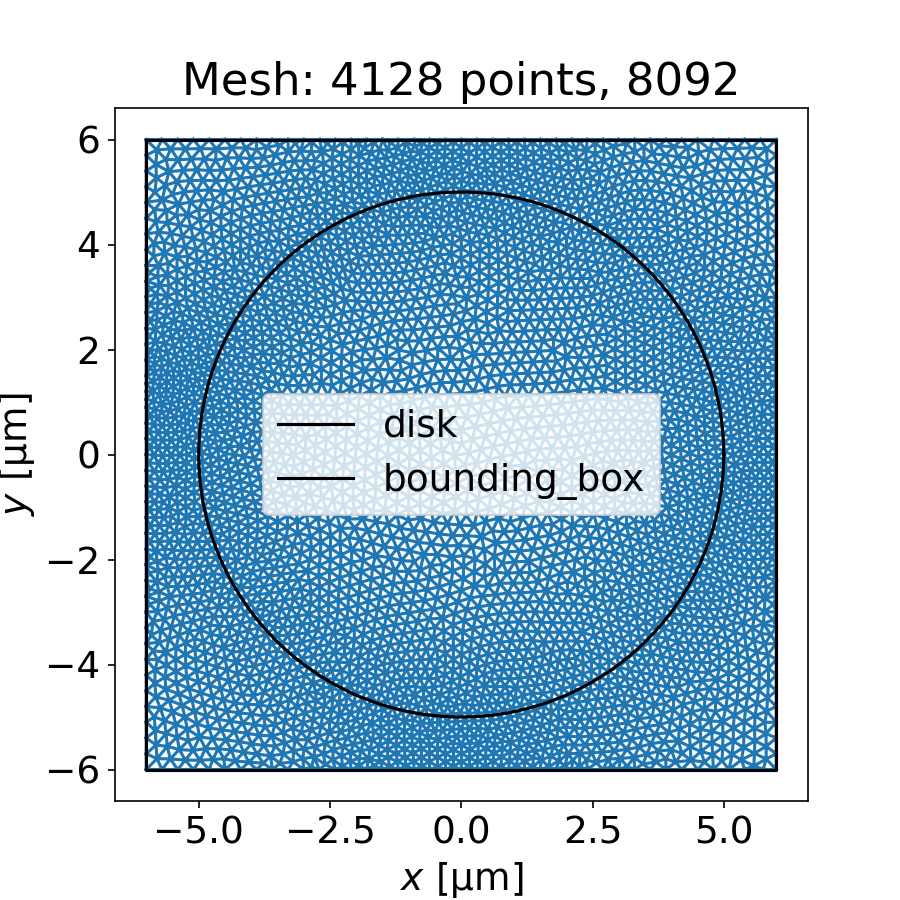
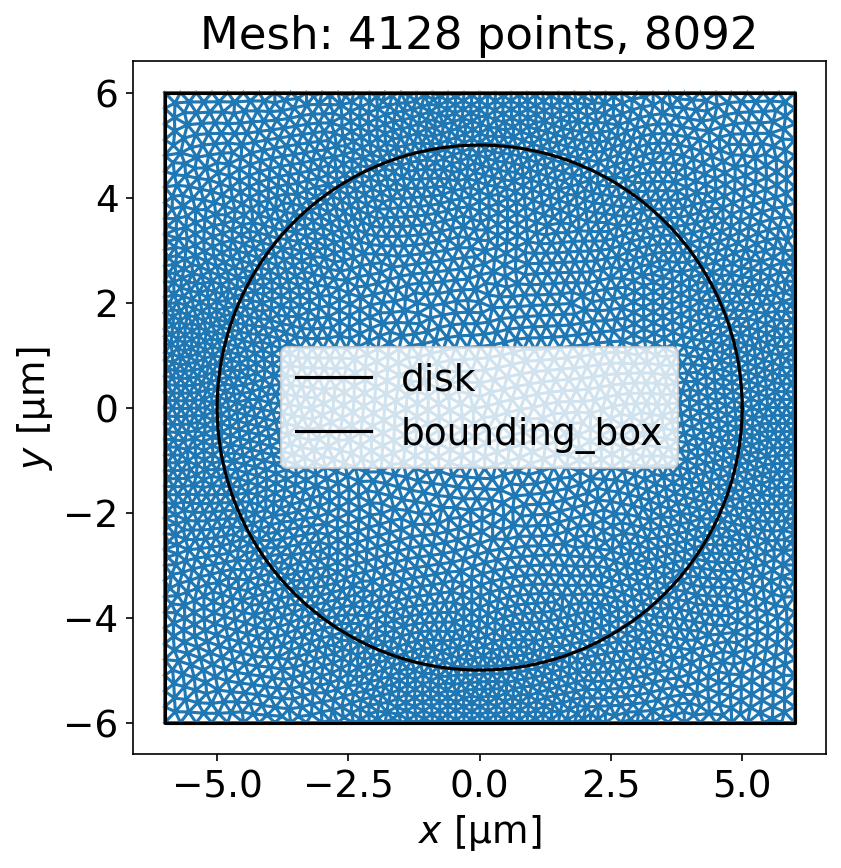
update plots

diff --git a/examples/scripts/ring.py b/examples/scripts/ring.py
@@ -119,19 +119,35 @@ if __name__ == "__main__":
         npoints = ring.points.shape[0]
         ntriangles = ring.triangles.shape[0]
         ax.set_title(f"Mesh: {npoints} points, {ntriangles}")
-        ax.figure.savefig(os.path.join(imagedir, f"{ring.name}_mesh.png"))
+        ax.figure.savefig(
+            os.path.join(imagedir, f"{ring.name}_mesh.png"),
+            bbox_inches="tight",
+        )
 
         # Simulate a current circulating around the hole in the ring.
         circulating_currents = {"hole": "1 mA"}
 
         solution = sc.solve(device=ring, circulating_currents=circulating_currents)[-1]
-        fig, axes = solution.plot_fields(figsize=(6, 7), cross_section_ys=[0])
-        fig.savefig(os.path.join(imagedir, f"{ring.name}_plot_fields.png"))
+        fig, axes = solution.plot_fields(
+            figsize=(6, 7),
+            cross_section_ys=[0],
+            auto_range_cutoff=0.1,
+        )
+        fig.savefig(
+            os.path.join(imagedir, f"{ring.name}_plot_fields.png"),
+            bbox_inches="tight",
+        )
 
         fig, axes = solution.plot_currents(
-            figsize=(6, 7), cross_section_ys=[0], units="mA/um"
+            figsize=(6, 7),
+            cross_section_ys=[0],
+            units="mA/um",
+            auto_range_cutoff=0.1,
         )
-        fig.savefig(os.path.join(imagedir, f"{ring.name}_plot_currents.png"))
+        fig.savefig(
+            os.path.join(imagedir, f"{ring.name}_plot_currents.png"),
+            bbox_inches="tight",
+        )
 
         # Perform a surface integral of the resulting fields to calculcate the
         # flux through the ring and the ring's self-inductance.
@@ -175,7 +191,10 @@ if __name__ == "__main__":
         #     )
 
         fig, axes = plot_solutions(solutions, Lambdas)
-        fig.savefig(os.path.join(imagedir, f"{ring.name}_circulating_current.png"))
+        fig.savefig(
+            os.path.join(imagedir, f"{ring.name}_circulating_current.png"),
+            bbox_inches="tight",
+        )
 
         # Simulate the field and current distributions for a given
         # uniform applied field across a wide range of Lambdas,
@@ -208,7 +227,10 @@ if __name__ == "__main__":
         #     )
 
         fig, axes = plot_solutions(solutions, Lambdas)
-        fig.savefig(os.path.join(imagedir, f"{ring.name}_uniform_field.png"))
+        fig.savefig(
+            os.path.join(imagedir, f"{ring.name}_uniform_field.png"),
+            bbox_inches="tight",
+        )
 
         # Simulate the field and current distribution for a nonuniform applied field,
         # namely the field from an isolated vortex pinned below the plane of the ring.
@@ -240,4 +262,7 @@ if __name__ == "__main__":
         #     )
 
         fig, axes = plot_solutions(solutions, Lambdas)
-        fig.savefig(os.path.join(imagedir, f"{ring.name}_nonuniform_field.png"))
+        fig.savefig(
+            os.path.join(imagedir, f"{ring.name}_nonuniform_field.png"),
+            bbox_inches="tight",
+        )

diff --git a/examples/scripts/disk.py b/examples/scripts/disk.py
@@ -61,7 +61,10 @@ if __name__ == "__main__":
     npoints = disk.points.shape[0]
     ntriangles = disk.triangles.shape[0]
     ax.set_title(f"Mesh: {npoints} points, {ntriangles}")
-    ax.figure.savefig(os.path.join(imagedir, f"{disk.name}_mesh.png"))
+    ax.figure.savefig(
+        os.path.join(imagedir, f"{disk.name}_mesh.png"),
+        bbox_inches="tight",
+    )
 
     # Define a uniform applied field.
     applied_field = sc.sources.ConstantField(1)
@@ -85,7 +88,10 @@ if __name__ == "__main__":
         )
 
     fig, axes = plot_solutions(solutions, Lambdas)
-    fig.savefig(os.path.join(imagedir, f"{disk.name}_uniform_field.png"))
+    fig.savefig(
+        os.path.join(imagedir, f"{disk.name}_uniform_field.png"),
+        bbox_inches="tight",
+    )
 
     # Simulate screening of a uniform applied magnetic field
     # by a disk with a spatially-nonuniform Lambda.
@@ -107,11 +113,24 @@ if __name__ == "__main__":
     )[-1]
 
     # Plot the fields.
-    fig, axes = solution.plot_fields(figsize=(5, 6), cross_section_ys=[-2, 0, 2])
-    fig.savefig(os.path.join(imagedir, f"{disk.name}_fields_nonuniform_lambda.png"))
+    fig, axes = solution.plot_fields(
+        figsize=(5, 6),
+        cross_section_ys=[-2, 0, 2],
+        auto_range_cutoff=0.1,
+    )
+    fig.savefig(
+        os.path.join(imagedir, f"{disk.name}_fields_nonuniform_lambda.png"),
+        bbox_inches="tight",
+    )
 
     # Plot the currents.
     fig, axes = solution.plot_currents(
-        figsize=(5, 6), cross_section_ys=[-2, 0, 2], units="mA/um"
+        figsize=(5, 6),
+        cross_section_ys=[-2, 0, 2],
+        units="mA/um",
+        auto_range_cutoff=0.1,
     )
-    fig.savefig(os.path.join(imagedir, f"{disk.name}_currents_nonuniform_lambda.png"))
+    fig.savefig(
+        os.path.join(imagedir, f"{disk.name}_currents_nonuniform_lambda.png"),
+        bbox_inches="tight",
+    )

diff --git a/examples/scripts/plot_solutions.py b/examples/scripts/plot_solutions.py
@@ -18,6 +18,7 @@ def plot_solutions(
     lw=2.5,
     show_Lambda=1,
     plot_polygons=True,
+    auto_range_cutoff=0.1,
 ):
     N = grid_shape // 2
 
@@ -36,7 +37,10 @@ def plot_solutions(
         field = fields["base"]
 
         if Lambda == show_Lambda:
-            im = ax.pcolormesh(xgrid, ygrid, field, shading="auto", cmap="cividis")
+            vmin, vmax = sc.visualization.auto_range_iqr(field, auto_range_cutoff)
+            im = ax.pcolormesh(
+                xgrid, ygrid, field, shading="auto", cmap="cividis", vmin=vmin, vmax=vmax,
+            )
             ax.set_xlabel("$x$ [$\\mu$m]")
             ax.set_ylabel("$y$ [$\\mu$m]")
             ax.set_title("Magnetic field, $\\mu_0H_z$\n$\\Lambda$ = 1 $\\mu$m")
